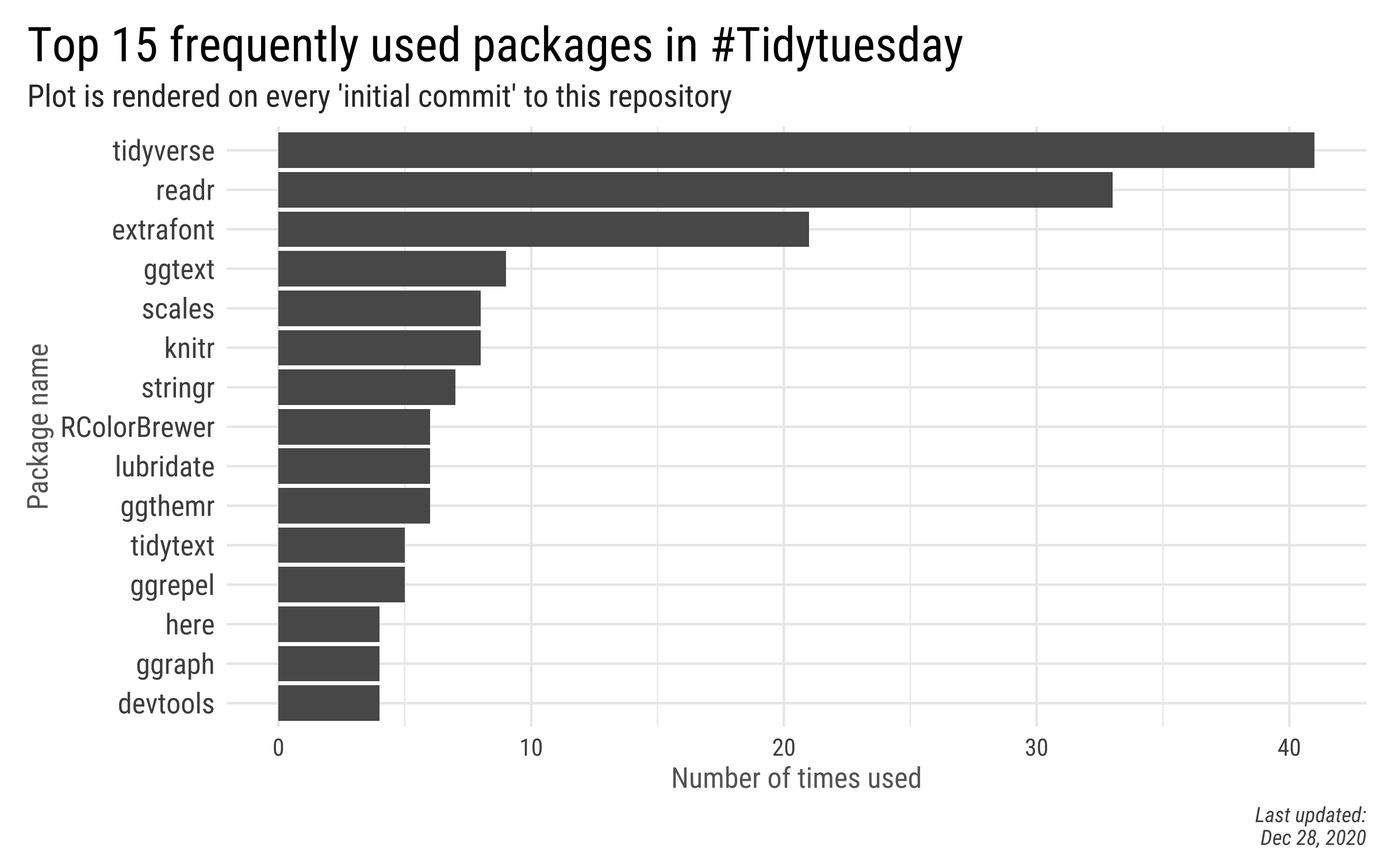
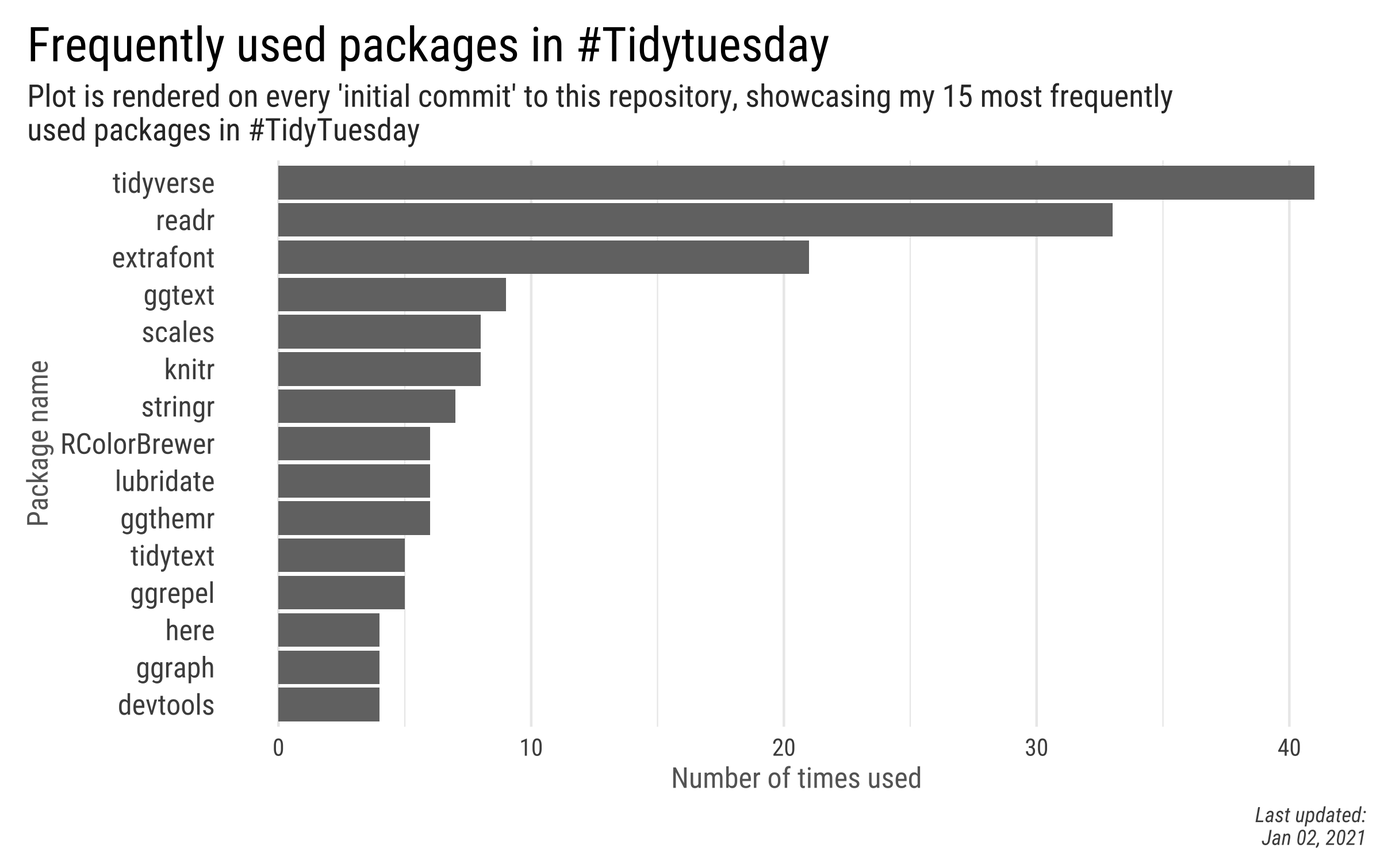
update blog post

Changed region(s): [[0.0, 0.1227, 0.9688, 0.8587], [0.0, 0.0307, 0.8438, 0.1227], [0.9062, 0.9507, 0.9688, 0.9813]]

diff --git a/content/post/What-packages-do-I-use-for-Tidytuesday/index.html b/content/post/What-packages-do-I-use-for-Tidytuesday/index.html
@@ -1,5 +1,5 @@
 ---
-title: A taste of GitHub Actions with an automated plot
+title: A Taste of GitHub Actions with an automated plot
 author: Amit Levinson
 date: '2020-12-31'
 slug: Identifying-packages-used-for-Tidytuesday
@@ -19,10 +19,10 @@ draft: true
 
 
 
-<div class="figure"><span id="fig:unnamed-chunk-1"></span>
-<img src="plot.png" alt="Final output of an automatically updating plot rendered on a specific commit to a GitHub repository." width="1200" />
+<div class="figure" style="text-align: center"><span id="fig:unnamed-chunk-1"></span>
+<img src="plot.png" alt="Final output of a plot automatically updating on a specific git commit." width="1200" />
 <p class="caption">
-Figure 1: Final output of an automatically updating plot rendered on a specific commit to a GitHub repository.
+Figure 1: Final output of a plot automatically updating on a specific git commit.
 </p>
 </div>
 <div id="preface" class="section level3">
@@ -31,22 +31,25 @@ Figure 1: Final output of an automatically updating plot rendered on a specific 
 <p>As to Michael, I thank him for the example I use in the post to try out GitHub Actions. A while back Michael posted in an Israeli R Facebook group a plot detailing the packages he frequently uses (<a href="https://gist.github.com/michaeldorman/ad8d89136f03769105ccc6199a913f0b?fbclid=IwAR09u1WFD9YpKYb7nvezOKqGGZac3AuVWC7ogDItSv9sXXS0x2KpYxg3aU0">Here’s</a> a gist with the script). When thinking of how to try out GitHub actions I thought replicating it would be a great example, only adding an automation as a twist.</p>
 <p>Speaking of automation, let’s dive in!</p>
 <p><img src="https://media.giphy.com/media/XCxcmEQWxDdc8qsd2R/giphy.gif" /></p>
-<div id="why-automate" class="section level4">
-<h4>Why automate?</h4>
+</div>
+<div id="why-automate" class="section level3">
+<h3>Why automate?</h3>
 <p>To answer that let’s start with understanding what GitHub Actions are. Taken from GitHub’s website:</p>
 <blockquote>
 <p>Automate, customize, and execute your software development workflows right in your repository with GitHub Actions. You can discover, create, and share actions to perform any job you’d like, including CI/CD, and combine actions in a completely customized workflow.</p>
 </blockquote>
-<p>I first heard about GitHub Actions in regards to package checks, enabling package developers to run continuous integrations, unit tests and the like automatically. <strong>One can have GitHub run a script built on a given Git action (e.g. a push or pull request), or at a specific time slot in the day\week\month.</strong> For the purpose of this postת and if you don’t use GitHub Actions frequently, you should be good with the free plan (default unless you subscribed). In any case, you can read more about the plans <a href="https://docs.github.com/en/free-pro-team@latest/github/setting-up-and-managing-billing-and-payments-on-github/about-billing-for-github-actions">here</a>).</p>
-<p>Reading up on various things you can automate made me eager to try it out - <strong>Automating a script to run every Sunday morning, sending an email, and so much more.</strong>. Another example that got me motivated was <a href="https://www.hvitfeldt.me/">Emil Hvitfeldt’s</a> awesome paletter <a href="https://twitter.com/BotPaletteer">bot</a>. A Twitter bot that automatically tweets color palette packages once a day. <strong>I constantly read about automation in R with functions, reports and the like, so why not take automating one step further?</strong></p>
+<p>I first heard about GitHub Actions in regards to package checks, enabling package developers to run continuous integrations, unit tests and the like automatically. <strong>One can have GitHub run a script when a Git action occurs (e.g. a push or pull request), or at a specific time slot in the day/week/month.</strong></p>
+<p>Reading up on various things you can automate made me eager to try it out - <strong>Automating a script to run every Sunday morning, sending an email, and so much more.</strong> Another example that got me motivated to learn was <a href="https://www.hvitfeldt.me/">Emil Hvitfeldt’s</a> awesome paletter <a href="https://twitter.com/BotPaletteer">bot</a>. A Twitter bot that automatically tweets color palette packages once a day.</p>
+<center>
+{{% tweet "1340376626853535745" %}}
+<newcaption><a href="https://www.hvitfeldt.me/">Emil Hvitfeldt’s</a> Twitter bot tweeting color palettes once a day using GitHub Actions</newcaption>
+</center>
 </div>
-</div>
-<div id="our-example-for-today---tidytuesday-packages" class="section level3">
-<h3>Our example for today - TidyTuesday packages</h3>
-<p>In this post I’ll go through creating the infrastructure to automatically updating a plot I present in a GitHub README file. Specifically, I’ll have the plot show my top 15 frequently used packages in #TidyTuesday. In short, #Tidytuesday is an awesome weekly data project where individuals analyze and visualize new data every week. You can find more info on the <a href="https://github.com/rfordatascience/tidytuesday">project’s Github page</a>, or <a href="https://amitlevinson.com/post/my-year-in-r/">about how it helps me in my journey of learning R and data visualization</a>.</p>
-<p>My Tidytuesday repository provides a perfect opportunity for me to try a GitHub Action. I open a new R session for each new project, resulting in creation of multiple R files, and more relevant to us, the packages we used each session. <strong>This is a specific example, but I hope you’ll be able to see the bigger picture of this amazing automating resource and use it when the time comes.</strong></p>
-<p>Side note: if you just want to visualize your #TidyTuesday libraries or <code>geoms</code> without any GitHub Actions, I highly recommend exploring <a href="https://karaman.is/">Georgis</a> <a href="https://twitter.com/geokaramanis/status/1334437358519902209">Tweet</a> and code from a while back. There he used the <code>{textreadr}</code> package which does a lot of the heavy lifting reading in and cleaning the files we’ll do below. I came across his tweet after completing the analysis part here and decided to leave it as it helps me understand what happens ‘under the hood’.</p>
-</div>
+<div id="my-tidytuesday-packages" class="section level2">
+<h2>My TidyTuesday packages</h2>
+<p>In this post I’ll go through creating the infrastructure to automatically updating a plot I present in my TidyTuesday GitHub README file. In short, #Tidytuesday is an awesome weekly data project where individuals analyze and visualize new data every week. You can find more info on the <a href="https://github.com/rfordatascience/tidytuesday">project’s Github page</a>, or <a href="https://amitlevinson.com/post/my-year-in-r/">about how it helps me in my journey of learning R</a>.</p>
+<p>When participating in Tidytuesday, I open a new R session for each new project. A new session for each week results in creation of multiple R files, and more relevant to us, the packages we used each session. Therefore I thought to myself why not showcase my frequently used packages, and have it automatically update?</p>
+<p>Quick side note: if you just want to visualize your #TidyTuesday code without any GitHub Actions, I highly recommend exploring <a href="https://karaman.is/">Georgis Karmanis</a> <a href="https://twitter.com/geokaramanis/status/1334437358519902209">Tweet</a> and code. There he used the <code>{textreadr}</code> package which does a lot of the heavy lifting reading in and cleaning the files we’ll be doing below. I came across his tweet after completing the analysis here and decided to leave as is, since it helps me better understand what happens ‘under the hood’.</p>
 <div id="reading-the-files" class="section level3">
 <h3>Reading the files</h3>
 <p>Michael’s original plot as an inspiration for the example to use with GitHub Actions is fantastic. However, what’s a blog post without some challenges and tears; therefore, we’ll replicate the same idea with a tidyverse approach (he originally did it with base R code).</p>
@@ -62,8 +65,8 @@ library(extrafont)
 tt_path &lt;- &quot;C:/Users/amitl/R_code/tidytuesday&quot;
 files &lt;- list.files(path = &quot;C:/Users/amitl/R_code/tidytuesday&quot;, pattern = &quot;\\.R$|.Rmd$&quot;, recursive = TRUE)
 files &lt;- files[-length(files)]</code></pre>
-<p>First and most important, I recommend using R projects and the <a href="https://github.com/jennybc/here_here">{here}</a> package by <a href="https://jennybryan.org/">Jennifer Bryan</a> for file management. The only reason I’m using a direct path is because when writing this post my R session assumes I’m within my website directory, making it a challenge to move between project roots<a href="#fn1" class="footnote-ref" id="fnref1"><sup>1</sup></a>. The argument basically lists all files ending in <code>.R</code> or <code>.Rmd</code> in that specific path. The <code>recursive = TRUE</code> searches through any sub-folders for any matching patterns, reading them in too.</p>
-<p>I also filter the last element of the vector because that’s the code file I use to produce the plot in the GitHub Action. One can have the Action run on a <code>README.Rmd</code> file that renders markdown README instead. However, I found using the code in a README cluttering so decided to stick with a regular R file and call the outputted plot from the repository’s README. If you wish to host the plot or a dashboard in a spearate html file, you can also see a different blog post of mine on <a href="https://amitlevinson.com/post/sharing-interactive-charts/">hosting interactive graphs online</a>, and render to that instead.</p>
+<p>First and most important, I recommend using R projects and the <a href="https://github.com/jennybc/here_here">{here}</a> package by <a href="https://jennybryan.org/">Jennifer Bryan</a> for file management. The only reason I’m using a direct path is because when writing this post my R session assumes I’m within my website directory, making it a challenge to move between project roots<a href="#fn1" class="footnote-ref" id="fnref1"><sup>1</sup></a>.</p>
+<p>We started by listing all files ending in <code>.R</code> or <code>.Rmd</code> in that specific path, also searching through sub-folder using <code>recursive = TRUE</code>. I then filter the last element of the vector because that’s the code file I use to produce the plot. One can have the Action run in a <code>README.Rmd</code> file that renders to markdown. Alternatively, you can host the <a href="https://amitlevinson.com/post/sharing-interactive-charts/">plot or dashboard in a separate interactive html file.</a></p>
 <p>Let’s look at what we have:</p>
 <pre class="r"><code>head(files)</code></pre>
 <pre><code>## [1] &quot;2019/1_Week38_Number of Visitors/National Parks.R&quot;       
@@ -125,51 +128,51 @@ head(file_packages)</code></pre>
 <h3>plot</h3>
 <p>We’re at the last part of reading-processing-plotting journey. The plot is pretty straight forward and I invite you to explore other plots if you wish to produce different outputs. Remember though that you want it to automatically update, so make sure you create something that won’t throw any errors requiring you to constantly edit the code.</p>
 <pre class="r"><code># Uncomment if you use it in a GitHub Action
-library(showtext)
-font_add_google(&quot;Roboto Condensed&quot;, &quot;Roboto&quot;)
-showtext_auto()
+# library(showtext)
+# font_add_google(&quot;Roboto Condensed&quot;, &quot;Roboto&quot;)
+# showtext_auto()
 
 file_packages %&gt;% 
   count(package, sort = T) %&gt;%
   slice(1:15) %&gt;% 
   ggplot()+
-  geom_col(aes(y= fct_reorder(package,n), x = n))+
-  labs(title = &quot;Top 15 frequently used packages in #Tidytuesday&quot;,
-       subtitle = &quot;Plot is rendered on every &#39;initial commit&#39; to this repository&quot;,
+  geom_col(aes(y= fct_reorder(package,n), x = n), fill = &quot;gray45&quot;)+
+  labs(title = &quot;Frequently used packages in #Tidytuesday&quot;,
+       subtitle = &quot;Plot is rendered on every &#39;initial commit&#39; to this repository, showcasing my 15 most frequently\nused packages in #TidyTuesday&quot;,
        x = &quot;Number of times used&quot;, y = &quot;Package name&quot;,
        caption = paste0(&quot;Last updated:\n&quot;,format(Sys.Date(), &quot;%b %d, %Y&quot;)))+
   theme_minimal()+
   theme(
     text = element_text(family = &quot;Roboto Condensed&quot;),
-    plot.title = element_text(size = 20),
+    plot.title = element_text(size = 18),
     plot.title.position = &quot;plot&quot;,
-    plot.subtitle = element_text(size = 13, color = &quot;gray20&quot;),
-    plot.caption = element_text(color = &quot;gray30&quot;, face = &quot;italic&quot;),
-    axis.title = element_text(color = &quot;gray40&quot;, size = 12),
+    plot.subtitle = element_text(size = 11, color = &quot;gray20&quot;),
+    plot.caption = element_text(size = 8, color = &quot;gray30&quot;, face = &quot;italic&quot;),
+    axis.title = element_text(color = &quot;gray40&quot;, size = 9),   
     axis.text.x = element_text(size = 10),
-    axis.text.y = element_text(size = 12),
+    axis.text.y = element_text(size = 11),
+    panel.grid.major.y = element_blank(),
     plot.margin = unit(c(4,2,2,4), &quot;mm&quot;)
   )</code></pre>
 <p><img src="{{< blogdown/postref >}}index_files/figure-html/unnamed-chunk-7-1.png" width="672" /></p>
 <pre class="r"><code># Save somewhere you&#39;ll reference later
 # ggsave (&quot;extra/packages-used.png&quot;)</code></pre>
-<p>A few things to note:</p>
+<p>A few specific things to note:</p>
 <ol style="list-style-type: decimal">
-<li><p>I used <code>showtext</code> as it enables to load a font that’s not currently installed on the computer. This will be beneficial for when we run the script through GitHub Actions that set up a remote R environment.</p></li>
+<li><p>In the GitHub Action I use <a href="https://github.com/yixuan/showtext"><code>showtext</code></a> as it enables to load a font that’s not currently installed on the computer. You might need to play around with the text size if you use this package, as the appearance of graphs might vary across operating systems. Here I used the<code>{extrafont}</code> package along with Roboto font, since for some reason showtext wasn’t properly rendering in this blog post.</p></li>
 <li><p>I decided to only take the top 15 frequently used packages. You can play around with it to find a number you like or one that properly fits.</p></li>
 <li><p>I automated the caption to print the current date on every render, i.e. every time we push to our #TidyTuesday repository and activate the GitHub Action.</p></li>
 </ol>
 </div>
+</div>
 <div id="github-actions" class="section level2">
 <h2>GitHub Actions</h2>
-<p>This was my first time around using GitHub actions and hopefully not the last. I’m not too familiar with GitHub actions at the time of writing this so I’ll start off by highlighting a few resources I found useful:</p>
-<ol style="list-style-type: decimal">
-<li><p>Jim Hester’s <a href="https://www.jimhester.com/talk/2020-rsc-github-actions/">rstudio talk</a> on GitHub actions - Great introduction and to get you excited about the opportunities available with GitHub Actions.</p></li>
-<li><p>Gavin Simpson’s blog post <a href="https://fromthebottomoftheheap.net/2020/04/30/rendering-your-readme-with-github-actions/">‘Rendering your README with GitHub Actions’</a> - A more hands-on approach on setting everything up to learn more about the <code>yaml</code> we write.</p></li>
-</ol>
-<p>To begin, make sure you have the <code>usethis</code> package installed. The package makes it extremely easy to work with GitHub Actions by providing great <code>yaml</code> templates and folder setups. We’re going to create a <code>yaml</code> file that will contain the commands we want GitHub to run. I found <code>usethis</code> <code>README.Rmd</code> template adequate so we’ll create that. Just type the following in the r console in the root folder of your #Tidytuesday repository (or whatever repository you want the Action to run on):</p>
+<p><em>See additional learning resources below</em></p>
+<p><img src="https://media.giphy.com/media/CmFMWpEa4IFtS/giphy.gif" /></p>
+<p>GitHub actions provide an easy way to automate various <em>workflows</em> one wants automated. We’ll be providing GitHub a set of instructions on when to run the Action and what exactly does it need to do. Instructions are aggregated as a script, in our case a ‘YAML’ file (Yet Another Markdown Language) with specific commands. For the purpose of this post, and if you don’t use GitHub Actions frequently, you should be good with the free plan (default unless you subscribed). In any case, you can read more about the plans <a href="https://docs.github.com/en/free-pro-team@latest/github/setting-up-and-managing-billing-and-payments-on-github/about-billing-for-github-actions">here</a>).</p>
+<p>We’ll use the <code>usethis</code> package to create the Action workflow. The package makes it easy to work with GitHub Actions by providing great <code>yaml</code> templates and folder setups. Alternatively, you can create a workflow yaml file yourself through the ‘Actions’ tab in your repository. I found <code>usethis</code> <code>README.Rmd</code> template adequate so we’ll create that. Assuming you have the package installed, just type the following in the r console in the root folder of your #Tidytuesday repository (or whatever repository you want the Action to run on):</p>
 <pre class="r"><code>usethis::use_github_action()</code></pre>
-<p>And you should get the following output, only with your information instead:</p>
+<p>And you should receive the following output, only with your information instead:</p>
 <pre class="yaml"><code>√ Setting active project to &#39;C:/Users/amitl/R_code/TidyTuesday&#39;
 √ Creating &#39;.github/&#39;
 √ Adding &#39;^\\.github$&#39; to &#39;.Rbuildignore&#39;
@@ -180,8 +183,9 @@ file_packages %&gt;%
   &lt;!-- badges: start --&gt;
   [![R build status](https://github.com/AmitLevinson/TidyTuesday/workflows/R-CMD-check/badge.svg)](https://github.com/AmitLevinson/TidyTuesday/actions)
   &lt;!-- badges: end --&gt;</code></pre>
-<p>Perfect. We’re not going to copy the lines suggested as they’re helpful for package checks, and we’re only interested in producing a plot. The important outcome for us from running the line is the newly produced output under <code>./github/workflows/R-CMD-check.yaml</code>. We’re going to use that YAML file to write up what we want GitHub to do.</p>
-<p>I will not go through what the file currently contains, due to lack of space and my knowledge of everything there. Instead I’ll provide you with the script I used in the <code>.yaml</code> to run what we need and we’ll go through that. You can just copy and paste it in and edit any information that’s specific to you (e.g. the plot name and folder you save it in). Also, feel free to rename the file, as long as it’s a <code>yaml</code> file under the <code>workflows</code> directory GitHub will process it as an Action automatically (no setup is needed, unless you use credentials).</p>
+<p>Perfect. We’re not going to copy the lines suggested as they’re helpful for package checks, and we’re only interested in producing a plot. The important outcome for us from running the line is the newly produced output under <code>./github/workflows/R-CMD-check.yaml</code>. We’re going to use that yaml file to write up what we want GitHub to do.</p>
+<p>I will not go through what the file currently contains, due to lack of space and my knowledge of everything there. Instead I’ll provide you with the script I used and we’ll review that. Also, feel free to rename the worflow file, as long as it’s a <code>yaml</code> file under the <code>workflows</code> directory GitHub will process it as an Action automatically. no further setup is needed, unless you want to use ‘secretes’ such as confidential API keys (More on scretes <a href="https://docs.github.com/en/free-pro-team@latest/actions/learn-github-actions/security-hardening-for-github-actions#using-secrets">here</a>.</p>
+<p>Below are the instructions we implement in our yaml file:</p>
 <pre class="yaml"><code>name: Render library update
 
 on: [push]
@@ -208,17 +212,21 @@ jobs:
           git push origin || echo &quot;No changes to commit&quot;</code></pre>
 <div id="whats-all-this-yaml" class="section level3">
 <h3>What’s all this yaml</h3>
-<p>Let’s break up the above script piece by piece:</p>
+<p>Let’s break break up the script piece by piece:</p>
 <ul>
-<li><p><code>name: Render library update</code> - The name of the the GitHub action. This is what will appear under the workflows section in the GitHub actions tab.</p></li>
+<li><p><code>name: Render library update</code> - The name of the the GitHub Action. This is what will appear under the workflows section in the GitHub actions tab.</p></li>
 <li><p><code>on: [push]</code> - Tells GitHub when to activate the workflow. There’s a plethora of options to use here; for example, you can have it run on every commit, a pull request or both. In addition, you can have it run at a specific time frame using <code>schedule</code>.</p></li>
 <li><p><code>jobs: build:</code> - I’m not sure what exactly they do. I know that for rendering README files you’d have <code>render</code> instead of build, but honestly I don’t know what either does exactly.</p></li>
-<li><p><code>runs-on: macOS-latest</code> This tells GitHub on which operating system to run the r environment. Essentially you can even choose a few such as Ubuntu, Windows, etc. It can be extremely useful when you’re checking out packages and want to verify they work on various operating systems. I use on my own computer windows, but <code>macOS-latest</code> works nonetheless.</p></li>
-<li><p><code>if: "contains(github.event.head_commit.message, 'initial commit')"</code> - Here we provide GitHub an ‘exit’ condition when running the script, and the condition on when to run it. <code>github.event.head_commit.message</code> captures the commit message you used before pushing. We then check whether it matches a regex we provided, in this case ‘initial commit’. If it matches then GitHub will run the action, otherwise it’ll exit the action and not process your script.<br />
-I implemented this because I didn’t want GitHub to run the script on every push. I was wondering how to have the script run only on newly added <code>.R</code> or <code>.Rmd</code> files and not also modifications of existing R files. But I found it a little too specific and decided to rely on a commit I commonly use when uploading a TidyTuesday output for the first time.</p></li>
-<li><p><code>steps...</code> - Here we tell GitHub the exact steps we want the action to do. The script starts with <code>uses</code> and then transitions between <code>name</code> and <code>run</code>.<br />
-<code>uses</code> tells GitHub what to use: In the first one, <code>actions/checkout@v2</code>, GitHub checks out a copy of our repository on which the workflow will run. We set the ‘fetch-depth’ to 2 so the Action collects the relevant info it needs from the repository (not sure exactly what, but with 1 won’t suffice. You can read more about it <a href="https://github.com/actions/checkout#usage">here</a>). Next we set up a remote r environment using the <code>r-lib/actions/setup-r@v1</code> argument (Again, read more about it [here])(<a href="https://github.com/r-lib/actions/tree/master/setup-r" class="uri">https://github.com/r-lib/actions/tree/master/setup-r</a>).<br />
-In the following steps we provide a name for the step and the actual code. In the first step we install the packages we’ll be using and in the next one we <code>source</code> the R code that produces our plot. Lastly we provide Git commands in which we add our rendered plot (notice that I save it in a sub-folder), commit and push the results. I’m not too sure about the ‘user.email’ and ‘user.name’ arguments so I left them as is.</p></li>
+<li><p><code>runs-on: macOS-latest</code> This tells GitHub on which operating system to run the r environment. Essentially you can even choose a few such as Ubuntu, Windows, etc. It can be extremely useful when you’re checking out packages and want to verify they work on various operating systems. I use on my own computer Windows and left it with <code>macOS-latest</code>.</p></li>
+<li><p><code>if: "contains(github.event.head_commit.message, 'initial commit')"</code> - Here we provide GitHub an ‘exit’ condition when running the Action, and the condition on when to run it. <code>github.event.head_commit.message</code> captures the commit message you used before pushing. We then check whether it matches a regex we provided, in this case ‘initial commit’. Without a logical condition, the Action will follow through on every push.</p></li>
+</ul>
+<p>{{% alert note %}}
+We use a conditional statement to tell GitHub when to run our Action. If the condition returns true, in this case matching our commit message, GitHub Actions will complete the workflow. Otherwise the Action will stop and exit before processing the following steps.
+{{% /alert %}}</p>
+<ul>
+<li><p><code>steps...</code> - Telling GitHub the exact steps we want the action to do. The script starts with <code>uses</code> and then transitions between <code>name</code> and <code>run</code>.<br />
+<code>uses</code> tells GitHub what to use: In the first one, <code>actions/checkout@v2</code>, GitHub checks out a copy of our repository on which the workflow will run. We set the ‘fetch-depth’ to 2 so the Action collects the relevant info it needs from the repository (not sure exactly what, but with 1 won’t suffice. You can read more about it <a href="https://github.com/actions/checkout#usage">here</a>). Next we set up a remote r environment using the <code>r-lib/actions/setup-r@v1</code> argument (Again, read more about it [here])(<a href="https://github.com/r-lib/actions/tree/master/setup-r" class="uri">https://github.com/r-lib/actions/tree/master/setup-r</a>).</p></li>
+<li><p>In the following steps we provide a name for the step and the actual code. In the first step we install the packages we’ll be using and in the next one we <code>source</code> the R code that produces our plot<a href="#fn2" class="footnote-ref" id="fnref2"><sup>2</sup></a>. Lastly we provide Git commands in which we add our rendered plot (notice that I save it in a sub-folder), commit and push the results. I’m not too sure about the ‘user.email’ and ‘user.name’ arguments so I left them as is.</p></li>
 </ul>
 <p>That’s it!</p>
 <div class="figure" style="text-align: center"><span id="fig:unnamed-chunk-11"></span>
@@ -227,12 +235,14 @@ In the following steps we provide a name for the step and the actual code. In th
 Figure 2: Succesfull GitHub Action detailing the process, found under the Actions tab
 </p>
 </div>
-<p>When the action is running you will see an orange dot at the top of your repository’s root folder. Once it’s complete it should turn green if all went well, or red if not. After it finishes give it a few minutes as it might take some time until the plot is actually updated.</p>
-<p><strong>The GitHub Action produces a new plot in the remote repository, but not locally on your computer. Therefore you might be required to merge the first time you push following the Action using ‘git pull’.</strong></p>
-<p>In order to debug, e.g., the orange dot turn to a red x, go into the ‘Actions’ tab in your repository, click on ‘Render library update’ or however you called the action -&gt; click on the last commit message -&gt; ‘build’ and then you should see a list of actions GitHub took. Try to identify where it stopped by locating the red x it marked the break with. Unfortunately debugging is a post in and of itself, and I’m not definitely the one to write it.</p>
+<p>When the Action is running you will see an orange dot at the top of the root folder of your repository. Once it’s complete it should turn green if all went well, or red if not. After it finishes give it a few minutes as it might take some time until the plot is actually updated. You can explore this action in <a href="https://github.com/AmitLevinson/TidyTuesday">my #Tidytuesday repository</a>.</p>
+<p>{{% alert warning %}}
+If the above GitHub Action follows through with the workflow and produces a new plot, it will only be updated in your remote repository. You might be required to merge the remote content locally next time you want to push.
+{{% /alert %}}</p>
+<p>In order to debug, for example if the orange dot turn to a red x, go into the ‘Actions’ tab in your repository, click on ‘Render library update’ or however you called the action -&gt; click on the last commit message -&gt; ‘build’ and then you should see a list of actions GitHub took. Try to identify where it stopped by locating the red x it marked the break with. Unfortunately debugging is a post in and of itself, and I’m not definitely the one to write it.</p>
 <p><strong>Disabling:</strong> If you wish to disable the GitHub Action, you can either remove the <code>.yaml</code> file or disable the action from the repository’s settings.</p>
 <div class="figure"><span id="fig:unnamed-chunk-12"></span>
-<img src="outcome.png" alt="our final outcome automatically updating in our README file." width="452" />
+<img src="outcome.png" alt="our final outcome automatically updating in our README file." width="509" />
 <p class="caption">
 Figure 3: our final outcome automatically updating in our README file.
 </p>
@@ -240,12 +250,20 @@ Figure 3: our final outcome automatically updating in our README file.
 </div>
 <div id="closing-remarks" class="section level3">
 <h3>Closing remarks</h3>
-<p>So this was only one example, and might be a little niche for some people, but I hope you got the big picture – GitHub Actions are easy to use, and they can automate a lot of your work. Do let me know if you made an Action, would love to see what you came up with!</p>
+<p>This was my first time around using GitHub actions and hopefully not the last. I’m not too familiar with GitHub actions at the time of writing this, and would like to highlight several resources I found useful for learning more about them:</p>
+<ol style="list-style-type: decimal">
+<li><p>Jim Hester’s <a href="https://www.jimhester.com/talk/2020-rsc-github-actions/">rstudio talk</a> on GitHub actions - Great introduction and to get you excited about the opportunities available with GitHub Actions.</p></li>
+<li><p>Gavin Simpson’s blog post <a href="https://fromthebottomoftheheap.net/2020/04/30/rendering-your-readme-with-github-actions/">‘Rendering your README with GitHub Actions’</a> - A more hands-on approach on setting everything up to learn more about the <code>yaml</code> we write, and how to implement it in a README file.</p></li>
+<li><p>Simon Couch blog post - As I was finalizing this blog post published a fantastic blog post on using <a href="https://blog.simonpcouch.com/blog/r-github-actions-commit/">GitHub actions to run an R script on a schedule</a>.</p></li>
+</ol>
+<p>Above I used only one example, and might be a little niche for some people, but I hope you got the big picture – GitHub Actions are easy to use, and they can automate a lot of your work. Do let me know if you made an Action as a result of reading the post, I would love to see what you came up with.</p>
+<p>You can find the complete R script <a href="https://github.com/AmitLevinson/TidyTuesday/blob/master/packages-plot.R">here</a>, and the YAML script for the Actions <a href="https://github.com/AmitLevinson/TidyTuesday/blob/master/.github/workflows/render-plot.yaml">here</a>.</p>
 </div>
 </div>
 <div class="footnotes">
 <hr />
 <ol>
 <li id="fn1"><p>If you decide to automate this with GitHub Actions, be alert if file paths throw an error.<a href="#fnref1" class="footnote-back">↩</a></p></li>
+<li id="fn2"><p>The more dependencies you have, the more susceptible your code is to breaking, e.g. if a function was deprecated.<a href="#fnref2" class="footnote-back">↩</a></p></li>
 </ol>
 </div>

diff --git a/assets/scss/custom.scss b/assets/scss/custom.scss
@@ -286,7 +286,7 @@ div.alert-note > div:first-child::before {
 div.alert-warning > div:first-child::before {
   font-family: 'Font Awesome 5 Free';
   color: #ff3860;
-  font-size: 1.2rem;
+  font-size: 1.3rem;
   content: "\f06a";
 }
 
